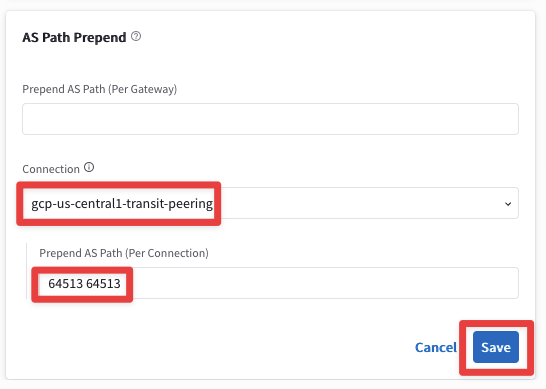
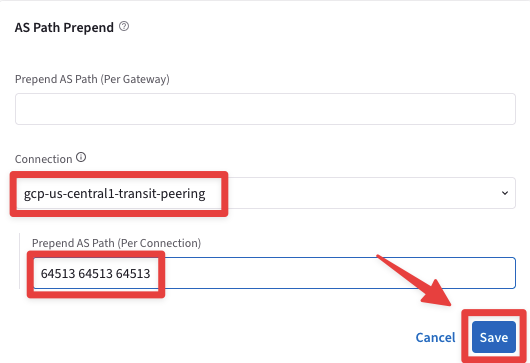
update for pro

diff --git a/ace_pro/docs/lab8.md b/ace_pro/docs/lab8.md
@@ -381,7 +381,7 @@ Fill in the attachment template using the following settings:
 
 - **Transit Gateway**: <span style='color:#479608'>gcp-us-central1-transit</span>
 - **Local Edge Gateway Interfaces**: <span style='color:#479608'>WAN(etho)</span>
-- **Attach over Private Network**: <span style='color:#479608'>**OFF**</span>
+- **Attach over**: <span style='color:#479608'>**Public Network**</span>
 - **High Performance Encryption**: <span style='color:#479608'>**OFF**</span>
 
 Do not forget to click on **Save**.
@@ -526,7 +526,7 @@ align: center
 aws-us-east-2-transit
 ```
 
-Select the `"Settings"` tab and then expand the `"Border Gateway Protocol (BGP)"` section, then under the `AS Path Prepend` widget,  select the `gcp-us-central1-transit-peering` connection and type **twice** the AS number 64513. 
+Select the `"Settings"` tab and then expand the `"Border Gateway Protocol (BGP)"` section, then under the `AS Path Prepend` widget,  select the `gcp-us-central1-transit-peering` connection and type **three times** the AS number 64513. 
 
 Of course, then click on **Save**.
 
@@ -548,7 +548,7 @@ align: center
 gcp-us-central1-transit
 ```
 
-Select the `"Settings"` tab and then expand the `"Border Gateway Protocol (BGP)"` section, then under the `AS Path Prepend` widget select the `aws-us-east-2-transit-peering` connection and type **twice** the AS number 64514. 
+Select the `"Settings"` tab and then expand the `"Border Gateway Protocol (BGP)"` section, then under the `AS Path Prepend` widget select the `aws-us-east-2-transit-peering` connection and type **three times** the AS number 64514. 
 
 Click on **Save** to apply the change!
 
@@ -615,6 +615,21 @@ align: center
 ---
 6 Hops
 ```
+
+Now go back to **CoPilot > Cloud Fabric > Gateways > Transit Gateways** and click on the **_aws-us-east-2-transit_** GW, then select the "Route DB" tab and then once again, on the right-hand side, type `172.16.1.0` inside the Search field.
+
+This time the AS Path Length will turn out being equal to 2. 
+
+<ins>The best path is via the Edge!</ins>
+
+```{figure} images/lab8-2path.png
+---
+height: 300px
+align: center
+---
+As path length = 2
+```
+
 
 After this lab, this is how the overall topology would look like:
 
